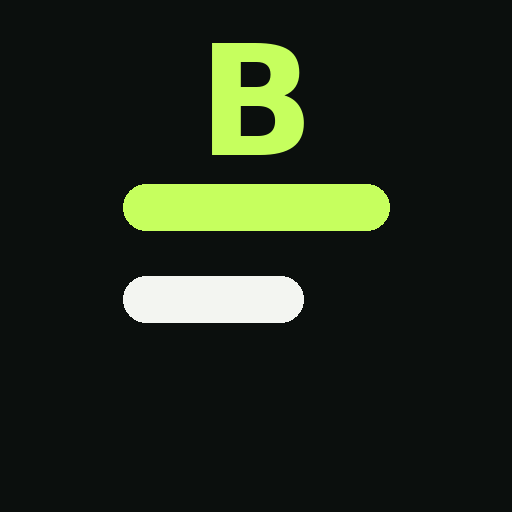
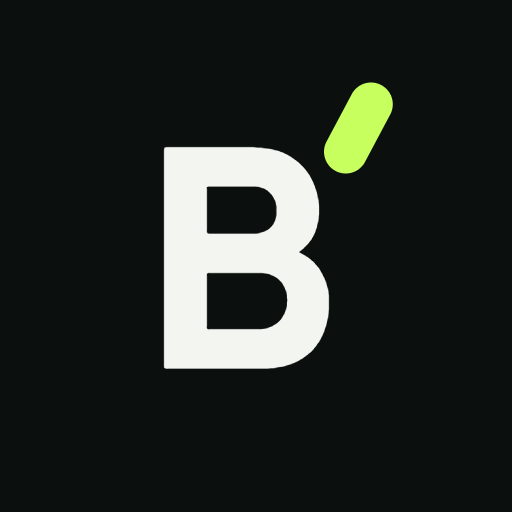
Budjé : nouveau nom, nouvelle icône, PWA mobile

Changed region(s): [[0.2188, 0.0625, 0.7812, 0.7188]]

diff --git a/index.html b/index.html
@@ -3,11 +3,13 @@
 <head>
 <meta charset="UTF-8">
 <meta name="viewport" content="width=device-width, initial-scale=1.0, viewport-fit=cover">
-<title>Bilan — mon budget personnel</title>
+<title>Budjé — mon budget personnel</title>
 <meta name="theme-color" content="#0B0F0D">
 <link rel="manifest" href="manifest.json">
 <link rel="icon" href="icons/icon-192.png">
-<link rel="apple-touch-icon" href="icons/icon-192.png">
+<link rel="apple-touch-icon" href="icons/apple-touch-icon.png">
+<meta name="apple-mobile-web-app-title" content="Budjé">
+<meta name="application-name" content="Budjé">
 <meta name="apple-mobile-web-app-capable" content="yes">
 <meta name="apple-mobile-web-app-status-bar-style" content="black-translucent">
 <link rel="preconnect" href="https://fonts.googleapis.com">
@@ -254,7 +256,7 @@
 <body>
 
 <nav class="bottom-nav" id="bottom-nav">
-  <span class="brandmark">Bilan</span>
+  <span class="brandmark">Budjé</span>
   <button data-view="home" class="active"><svg viewBox="0 0 24 24" fill="none" stroke="currentColor" stroke-width="2"><path d="M3 11l9-7 9 7"/><path d="M5 10v10h14V10"/></svg><span>Accueil</span><span class="dot"></span></button>
   <button data-view="transactions"><svg viewBox="0 0 24 24" fill="none" stroke="currentColor" stroke-width="2"><path d="M4 6h16M4 12h16M4 18h10"/></svg><span>Transactions</span><span class="dot"></span></button>
   <button data-view="categories"><svg viewBox="0 0 24 24" fill="none" stroke="currentColor" stroke-width="2"><path d="M20 12l-8 8-8-8 8-8h8v8z"/></svg><span>Catégories</span><span class="dot"></span></button>
@@ -417,7 +419,7 @@
 </div>
 
 <div id="print-report">
-  <h1>Bilan — rapport</h1>
+  <h1>Budjé — rapport</h1>
   <p class="p-sub" id="print-sub"></p>
   <table>
     <thead><tr><th>Date</th><th>Type</th><th>Catégorie</th><th>Description</th><th class="amt">Montant</th></tr></thead>
@@ -723,7 +725,7 @@
     const blob = new Blob(['\uFEFF' + lines.join('\r\n')], { type: 'text/csv;charset=utf-8;' });
     const a = document.createElement('a');
     a.href = URL.createObjectURL(blob);
-    a.download = 'bilan-transactions-' + new Date().toISOString().slice(0,10) + '.csv';
+    a.download = 'budje-transactions-' + new Date().toISOString().slice(0,10) + '.csv';
     document.body.appendChild(a); a.click(); document.body.removeChild(a);
   });
   function csvEsc(s){ s = String(s); return s.includes(';') || s.includes('"') ? '"' + s.replace(/"/g,'""') + '"' : s; }

diff --git a/service-worker.js b/service-worker.js
@@ -1,11 +1,12 @@
-const CACHE_NAME = 'bilan-cache-v1';
+const CACHE_NAME = 'budje-cache-v2';
 const ASSETS = [
   './',
   './index.html',
   './manifest.json',
   './vendor/chart.umd.min.js',
   './icons/icon-192.png',
-  './icons/icon-512.png'
+  './icons/icon-512.png',
+  './icons/apple-touch-icon.png'
 ];
 
 self.addEventListener('install', (event) => {
